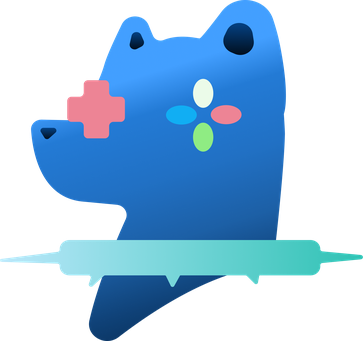
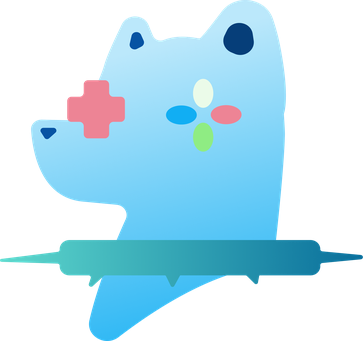
Update mascot/hands/machine art, restyle hero/quote/footer, trim cabinet header
- New Figma exports resized for web: mascot-dark.png (recolored,
  matched to mascot-light's footprint), arcade.png (replaces the old
  machine art, matched to its old footprint), hand-upper.png/
  hand-bottom.png (replace the single combined hands.svg -- each hand
  is a separate export now so it can be positioned independently).
- Hero wordmark: back to a gradient (was a flat color last round),
  left-to-right #62C9F6 -> #B8E7FB per the new spec.
- Quote: centered text (was left-aligned), "Robert Swan" stays
  bottom-right and bigger.
- CTA hands: upper hand nudged toward the top-right, bottom hand
  toward the bottom-left, using the two new separate exports.
- Games: machine's bottom edge now sits flush on the footer's top
  edge (align-items:flex-end + zero bottom padding instead of
  vertically centered with padding under it), copy column wider.
- Footer: white rule above the credit block, credit lines split into
  three spaced clusters (RMIT/School/Program, the citation, copyright+
  logo), copyright line set in Apotek Wide bold.
- Cabinet: dropped the RMIT/COMM2754 corner header text -- redundant
  now that it's a lean game launcher reached from the landing page,
  which already carries that attribution.

diff --git a/landing/style.css b/landing/style.css
@@ -233,15 +233,16 @@ section[id] {
   z-index: 1;
 }
 
-/* Plain light color instead of the old dark-to-light gradient -- reads
-   clearly against the hero background in both themes. */
 .hero-title {
   font-family: "apotek-wide", sans-serif;
   font-weight: 700;
   font-size: clamp(40px, 10.5vw, 190px);
   line-height: 0.95;
   margin: 0;
-  color: #eaf7ff;
+  background: linear-gradient(90deg, #62c9f6, #b8e7fb);
+  -webkit-background-clip: text;
+  background-clip: text;
+  color: transparent;
 }
 
 /* -------------------- small reusable decorations -------------------- */
@@ -375,7 +376,7 @@ section[id] {
   max-width: 1500px;
   margin: 0 auto;
   padding: clamp(20px, 5vw, 60px) 24px;
-  text-align: left;
+  text-align: center;
 }
 
 /* per the master export: a bubble pair (big + mini) top-left */
@@ -448,13 +449,33 @@ section[id] {
   position: relative;
   z-index: 1;
   width: min(88%, 1180px);
+  aspect-ratio: 5 / 4;
   margin: 0 auto;
 }
 
-.quote-hands {
+/* Two separate exports now (Hung's real Figma pieces) instead of one
+   combined SVG, so each hand can be nudged independently -- upper hand
+   toward the top-right corner, bottom hand toward the bottom-left,
+   matching their real Figma positions. */
+.quote-hand {
   display: block;
-  width: 100%;
+  position: absolute;
   height: auto;
+  pointer-events: none;
+}
+
+.quote-hand--upper {
+  top: 0;
+  right: 0;
+  width: 56%;
+  transform: translate(8%, -8%);
+}
+
+.quote-hand--bottom {
+  bottom: 0;
+  left: 0;
+  width: 50%;
+  transform: translate(-8%, 8%);
 }
 
 .cta {
@@ -512,16 +533,22 @@ section[id] {
 }
 
 /* -------------------- games / cabinet launcher -------------------- */
+/* align-items:flex-end (not center) plus zero bottom padding puts the
+   machine's own bottom edge flush against the section's bottom edge --
+   "standing on" the footer that immediately follows, rather than
+   floating with a padding gap under it. The copy column overrides back
+   to vertically centered (align-self) since bottom-aligning a text
+   block would look odd. */
 .games {
   position: relative;
   min-height: calc(100vh - var(--header-h));
   display: flex;
-  align-items: center;
+  align-items: flex-end;
   justify-content: center;
   gap: clamp(24px, 5vw, 80px);
   max-width: 1300px;
   margin: 0 auto;
-  padding: clamp(20px, 6vw, 60px) 24px clamp(60px, 10vw, 140px);
+  padding: clamp(20px, 6vw, 60px) 24px 0;
   flex-wrap: wrap;
   text-align: left;
 }
@@ -538,7 +565,8 @@ section[id] {
 }
 
 .games-copy {
-  max-width: 560px;
+  align-self: center;
+  max-width: 780px;
   text-align: center;
 }
 
@@ -638,7 +666,7 @@ section[id] {
   max-width: 1200px;
   margin: 0 auto;
   padding-bottom: clamp(24px, 5vw, 50px);
-  border-bottom: 1px solid rgba(2, 20, 39, 0.15);
+  border-bottom: 1px solid rgba(255, 255, 255, 0.6);
   text-align: center;
 }
 
@@ -681,15 +709,32 @@ section[id] {
   color: var(--sdg-color);
 }
 
-.footer-credit p {
-  margin: 0 0 8px;
+/* Three visual clusters -- RMIT/School/Program, the reference citation,
+   and copyright+logo -- each tight internally, with a bit of breathing
+   room between clusters instead of one flat uniform list. */
+.footer-credit-group + .footer-credit-group {
+  margin-top: clamp(18px, 3vw, 32px);
+}
+
+.footer-credit-group p {
+  margin: 0 0 6px;
   font-size: clamp(12px, 1.4vw, 18px);
   line-height: 1.6;
   opacity: 0.85;
 }
 
+.footer-credit-group p:last-child {
+  margin-bottom: 0;
+}
+
+.footer-credit-group p.footer-copyright {
+  font-family: "apotek-wide", sans-serif;
+  font-weight: 700;
+  opacity: 1;
+}
+
 .footer-brand {
-  margin-top: clamp(16px, 3vw, 30px);
+  margin-top: 10px;
   display: flex;
   align-items: center;
   justify-content: center;

diff --git a/landing/index.html b/landing/index.html
@@ -17,7 +17,7 @@
   <!-- Apotek Wide -- same Adobe Fonts kit every other SEAVENTURE page uses -->
   <link rel="stylesheet" href="https://use.typekit.net/rav6zvx.css">
 
-  <link rel="stylesheet" href="style.css?v=17">
+  <link rel="stylesheet" href="style.css?v=18">
 </head>
 <body>
 
@@ -146,7 +146,8 @@
       <svg class="deco deco-fish deco-fish--cta-a" viewBox="0 0 96 36" aria-hidden="true"><use href="#deco-fish-4"/></svg>
       <svg class="deco deco-fish deco-fish--cta-b" viewBox="0 0 96 36" aria-hidden="true"><use href="#deco-fish-4"/></svg>
       <div class="quote-hands-wrap">
-        <img class="quote-hands" src="assets/hands.svg" alt="" aria-hidden="true">
+        <img class="quote-hand quote-hand--upper" src="assets/hand-upper.png" alt="" aria-hidden="true">
+        <img class="quote-hand quote-hand--bottom" src="assets/hand-bottom.png" alt="" aria-hidden="true">
         <p class="cta">Change everyday habits to protect ocean health</p>
       </div>
     </section>
@@ -207,18 +208,24 @@
     </div>
 
     <div class="footer-credit">
-      <p>RMIT University Vietnam, Saigon South Campus</p>
-      <p>School of Communication and Design</p>
-      <p>Digital Media Program</p>
-      <p>Stevenson A (2012) Robert Swan OBE: &ldquo;The greatest threat to our planet is the belief that someone else will save it&rdquo;, HuffPost website, accessed 19 August 2026. https://www.huffpost.com/entry/robert-swan-antarctica_b_1315047</p>
-      <p>&copy; N5CC (2026). All rights reserved.</p>
-      <p class="footer-brand">
-        <picture>
-          <source srcset="assets/mascot-dark.png" media="(prefers-color-scheme: dark)">
-          <img class="footer-brand-icon" src="assets/mascot-light.png" alt="">
-        </picture>
-        <span class="footer-brand-text">N5CC</span>
-      </p>
+      <div class="footer-credit-group">
+        <p>RMIT University Vietnam, Saigon South Campus</p>
+        <p>School of Communication and Design</p>
+        <p>Digital Media Program</p>
+      </div>
+      <div class="footer-credit-group">
+        <p>Stevenson A (2012) Robert Swan OBE: &ldquo;The greatest threat to our planet is the belief that someone else will save it&rdquo;, HuffPost website, accessed 19 August 2026. https://www.huffpost.com/entry/robert-swan-antarctica_b_1315047</p>
+      </div>
+      <div class="footer-credit-group">
+        <p class="footer-copyright">&copy; N5CC (2026). All rights reserved.</p>
+        <p class="footer-brand">
+          <picture>
+            <source srcset="assets/mascot-dark.png" media="(prefers-color-scheme: dark)">
+            <img class="footer-brand-icon" src="assets/mascot-light.png" alt="">
+          </picture>
+          <span class="footer-brand-text">N5CC</span>
+        </p>
+      </div>
     </div>
   </footer>
 

diff --git a/landing/cabinet/styles.css b/landing/cabinet/styles.css
@@ -42,30 +42,6 @@ body {
   container-type: inline-size;
 }
 
-.header {
-  position: absolute;
-  z-index: 1000;
-  margin: 0;
-  color: #e3fae0;
-  font-family: 'Alata', sans-serif;
-  font-weight: 400;
-  font-size: 1.0417vw;
-  line-height: 1.25;
-}
-
-.header--left {
-  left: 0.3646%;
-  top: 0.3704%;
-  width: 48.8021%;
-}
-
-.header--right {
-  right: 0.7813%;
-  top: 0.463%;
-  width: 39.8438%;
-  text-align: right;
-}
-
 .top-vignette {
   position: absolute;
   inset: 0 0 auto 0;

diff --git a/landing/cabinet/index.html b/landing/cabinet/index.html
@@ -27,8 +27,6 @@
 
   <main class="stage">
     <div class="top-vignette" aria-hidden="true"></div>
-    <p class="header header--left">RMIT University Vietnam, Saigon South Campus,<br>School of Communication and Design, Digital Media Program</p>
-    <p class="header header--right">COMM2754-2026-S2-A2w08-Seaventure-Project</p>
 
     <section class="slide" aria-label="SEAVENTURE Games">
       <img class="machine" src="../../assets/images/machine.svg?v=2" alt="" draggable="false">
